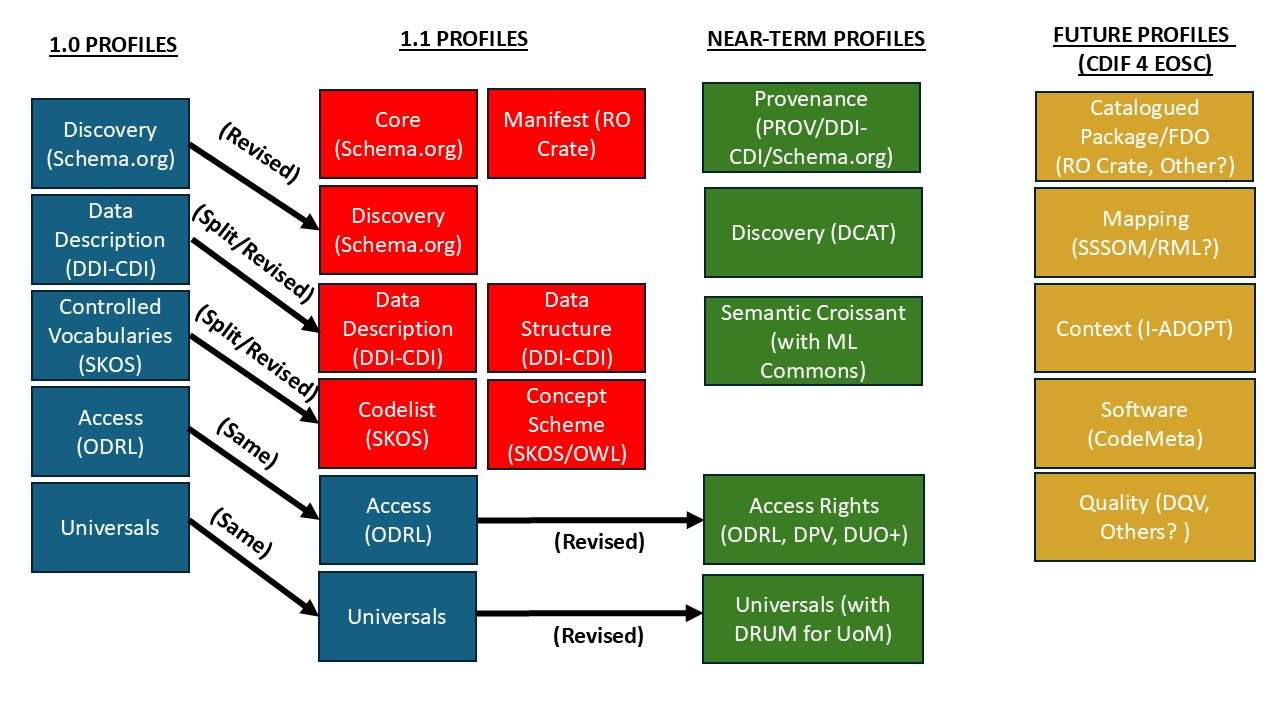
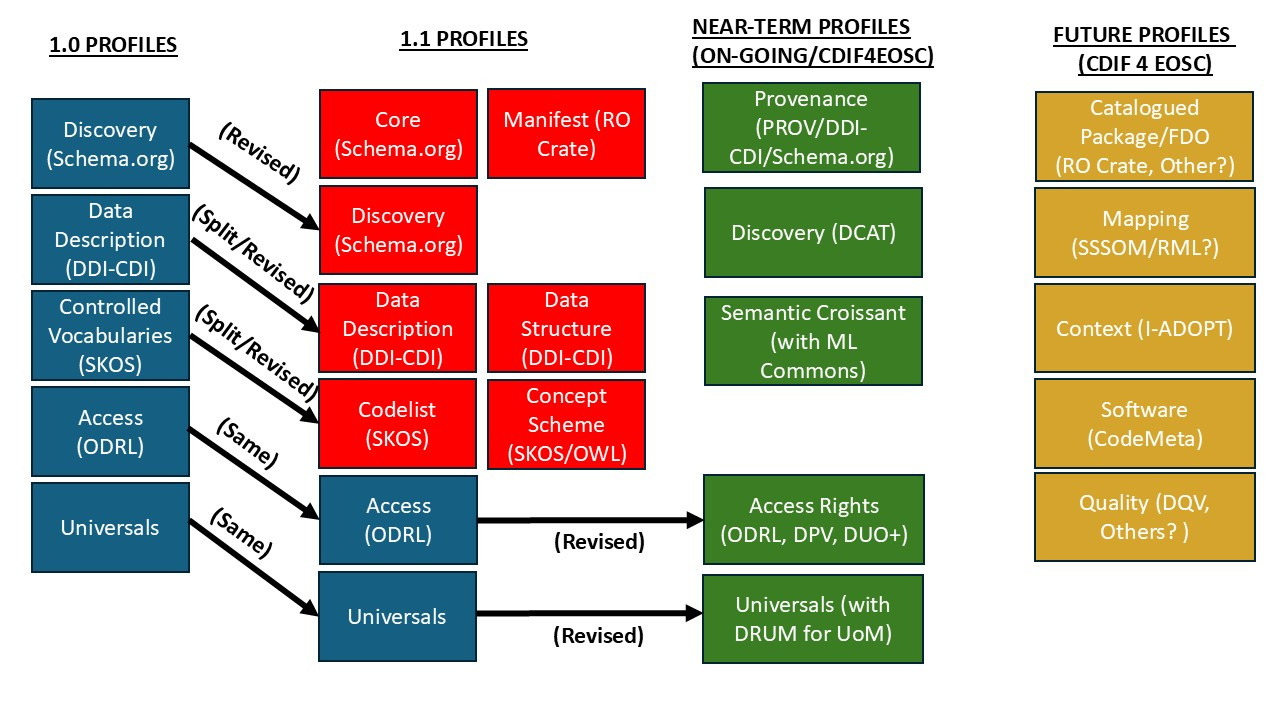
Changes to Dev, Maint, Prod page
Changes to the Development, maintenance, and production section - edits

diff --git a/background/development.md b/background/development.md
@@ -21,7 +21,7 @@ The CDIF Book  and the CDIF.org website are good places to find the latest infor
 
 CDIF is developed by teams of experts who are typically volunteers or project participants with an interest in the existence of CDIF because of the interoperability it will enable. Research is increasingly data-intensive and cross-domain in orientation, making the need for something like CDIF increasingly urgent. Many volunteers are involved with the development of other technical standards and specifications in areas related to FAIR use of resources. 
 
-These individuals are brought together by CODATA as the coordinating body, providing the expertise and work force for the development of CDIF. They are organized into two groups: the CDIF Working group and the CDIF Advisory Group. The Working Group performs most of the development, with the Advisory group in a steering and review capacity.
+These individuals are brought together by CODATA as the coordinating body, providing the expertise and work force for the development of CDIF. They are organized into two groups: the CDIF Working Group and the CDIF Advisory Group. The Working Group performs most of the development, with the Advisory Group in a steering and review capacity.
 
 When a new profile has been identified for development, a series of meetings are held, going through several steps:
 1. Landscape review: Identification of the current state of play, scope, and requirements.
@@ -52,11 +52,12 @@ For the existing CDIF profiles, all of the various artefacts (documentation, SHA
 6. JSON-LD Framing for the profile
 7. Clickable Field-Level documentation, linking all of the syntax artefacts (SHACL, JSON Schema, etc.) together with detailed documentation for developers
 8. A UML formalization of the profile implementation, expressed as Canonical XMI, and according to the UCMIS style to ensure interoperability across UML tools
-9. Potential/Future: Pydantic classes to enable easier Python implementation
-10. Potential/Future: OGC Building Blocks to enable easier domain-level adaptation and specification
+9. *Potential/Future:* Pydantic classes to enable easier Python implementation
+10. *Potential/Future:* OGC Building Blocks to enable easier domain-level adaptation and specification
 
 The production flow in future will start with the creation of the UML model for each profile implementation, working with the development team on the basis of the Conceptual Model and the syntax implementation and examples. Once the production team has developed a suitable UML model, this will be used to drive the coordinated generation of all of the other artefacts.
-It is worth describing why the UML: model is used in this way. It is often the case that UML is employed to define a conceptual formalization. That is not the case here. RDF vocabularies are often modelled in a fashion which does not fit neatly into the object-oriented style of UML formalizations, so the more generic style used in the RDF community is employed here (essentially, "boxes and arrows" based on the RDF information model, as often seen in W3C Recommendations). The CDOIF Conceptual Model for each profile is documented, but is not formalized as a UML model. 
+
+It is worth describing why the UML: model is used in this way. It is often the case that UML is employed to define a conceptual formalization. That is not the case here. RDF vocabularies are often modelled in a fashion which does not fit neatly into the object-oriented style of UML formalizations, so the more generic style used in the RDF community is employed here (essentially, "boxes and arrows" based on the RDF information model, as often seen in W3C Recommendations). The CDIF Conceptual Model for each profile is documented, but is not formalized as a UML model during initial development. 
 
 The UML formalization is not a single implementation model, but a somewhat generalized one, as it must span implementation in a set of different syntax-bound outputs: SHACL, JSON Schema, OO classes like Pydantic, etc. All of these artefacts must be coordinated, or the profiles will not function as intended. (E.g., a JSON-LD metadata instance must be valid according to both the JSON Schema and the SHACL rules, etc.)
 
